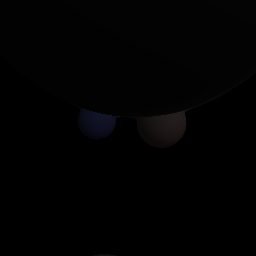
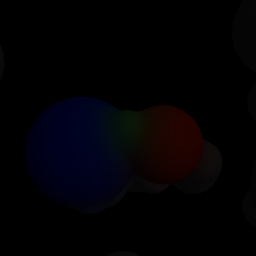
feat: loss関数の調整

Changed region(s): [[0.125, 0.375, 0.4688, 0.75], [0.625, 0.4062, 0.8125, 0.6875]]

diff --git a/src/renderer_diff.rs b/src/renderer_diff.rs
@@ -1,0 +1,86 @@
+use crate::model::scene::{calc_normal_scene, scene_sdf_value};
+use burn::prelude::*;
+use burn::tensor::activation;
+
+pub fn render_diff<B: Backend>(
+    ray_org: Tensor<B, 2>, // [N, 3]
+    ray_dir: Tensor<B, 2>, // [N, 3]
+    centers: Tensor<B, 2>, // [M, 3]
+    colors: Tensor<B, 2>,  // [M, 3]
+    radius: Tensor<B, 2>,  // [M, 1]
+) -> Tensor<B, 2> // [N, 3]
+{
+    let num_rays = ray_org.dims()[0];
+    let device = ray_org.device();
+
+    let mut t = Tensor::<B, 2>::zeros([num_rays, 1], &device);
+
+    for _ in 0..40 {
+        let p = ray_org.clone() + ray_dir.clone() * t.clone();
+        let dist = scene_sdf_value(p, centers.clone(), radius.clone());
+        t = t + dist;
+    }
+
+    let p_final = ray_org + ray_dir * t;
+
+    let normal = calc_normal_scene(p_final.clone(), centers.clone(), radius.clone());
+
+    let light_dir_vec: [f32; 3] = [-0.5, 0.5, -1.0];
+    // 正規化
+    let ld_len =
+        (light_dir_vec[0].powf(2.0) + light_dir_vec[1].powf(2.0) + light_dir_vec[2].powf(2.0))
+            .sqrt();
+    let light_dir_data = light_dir_vec.map(|x| x / ld_len);
+
+    // [1, 3] として作成 (ブロードキャスト用)
+    let light_dir = Tensor::<B, 1>::from_floats(light_dir_data, &device).unsqueeze_dim(0);
+
+    // normal: [N, 3], light_dir: [1, 3] -> [N, 3]
+    let diffuse = (normal * light_dir).sum_dim(1).clamp_min(0.0); // [N, 1]
+
+    let lighting = diffuse + 0.1;
+
+    // Step A: 全レイと全球の距離行列 [N, M] を計算
+    // p_final: [N, 1, 3]
+    let p_expanded = p_final.clone().unsqueeze_dim::<3>(1);
+    // centers: [1, M, 3]
+    let c_expanded = centers.clone().unsqueeze_dim::<3>(0);
+
+    // diff: [N, M, 3]
+    let diff = p_expanded - c_expanded;
+
+    // dists: [N, M] (各レイから各球への距離)
+    let dists_sq = diff.powf_scalar(2.0).sum_dim(2).squeeze_dim(2);
+    let dists = dists_sq.sqrt() - radius.clone().transpose(); // [N, M] - [1, M] -> [N, M]
+
+    // Step B: 重みの計算 [N, M]
+    // weight = exp(-dist * 10.0)
+    let weights = dists.mul_scalar(-10.0).exp();
+
+    // Step C: 色の加重平均
+    // colors: [M, 3] -> [1, M, 3]
+    let colors_expanded = colors.unsqueeze_dim::<3>(0);
+
+    // weights: [N, M] -> [N, M, 1] (色成分へ掛けるため)
+    let weights_expanded = weights.clone().unsqueeze_dim::<3>(2);
+
+    // weighted_colors: [N, M, 3] = [1, M, 3] * [N, M, 1]
+    let weighted_colors = colors_expanded * weights_expanded;
+
+    // 全球分を合計 [N, M, 3] -> [N, 1, 3] -> [N, 3]
+    let color_sum = weighted_colors.sum_dim(1).squeeze_dim(1);
+
+    // 重みの合計 [N, M] -> [N, 1]
+    let weight_sum = weights.sum_dim(1) + 1e-5;
+
+    // 混合色
+    let mixed_color = color_sum / weight_sum;
+
+    let object_color = mixed_color * lighting;
+
+    let dist_scene = scene_sdf_value(p_final, centers, radius);
+
+    let mask = activation::sigmoid(dist_scene.mul_scalar(-15.0));
+
+    object_color * mask
+}

diff --git a/src/bin/train.rs b/src/bin/train.rs
@@ -104,11 +104,56 @@ fn main() {
 
         // --- Forward & Backward ---
         let output = model.forward(batch_ro, batch_rd);
-        let loss = (output - batch_target).powf_scalar(2.0).mean();
+
+        // --- Loss計算 ---
+        let diff = output - batch_target.clone();
+        let mse_map = diff.clone().powf_scalar(2.0);
+        let abs_diff = diff.abs();
+
+        // 1. 物体領域(黒くない画素)の判定
+        let target_sum = batch_target.sum_dim(1);
+        let target_mask = target_sum.greater_elem(0.01); // [Batch, 1] Bool
+
+        // 2. 混合Loss (物体領域は L1 で厳しく、背景は MSE)
+        let mixed_loss_map = mse_map.mask_where(
+            target_mask,     // condition
+            abs_diff * 10.0, // replacement (L1 * 10)
+        );
+        let mut loss = mixed_loss_map.mean();
+
+        // 3. 反発項 (0除算/無限勾配回避)
+        let centers = model.centers.val();
+        let c1 = centers.clone().unsqueeze_dim::<3>(1);
+        let c2 = centers.clone().unsqueeze_dim::<3>(0);
+        let dist_sq = (c1 - c2).powf_scalar(2.0).sum_dim(2);
+        let dist_matrix = (dist_sq + 1e-6).sqrt().squeeze_dim(2);
+        let eye = Tensor::<MyBackend, 2>::eye(N, &device);
+        let repulsion_loss = (dist_matrix + eye * 100.0 + 1e-6).powf_scalar(-1.0).mean();
+        loss = loss + repulsion_loss * 0.0002;
+
+        // 4. 半径の巨大化ペナルティ (型エラー修正版)
+        let radius_val = activation::softplus(model.radius.val(), 1.0);
+        let r_mask = radius_val.clone().greater_elem(1.0); // 1.0を超えたら罰則
+        let radius_penalty = Tensor::zeros_like(&radius_val)
+            .mask_where(r_mask, radius_val.powf_scalar(2.0))
+            .mean();
+        loss = loss + radius_penalty * 0.1;
+
+        // 5. 画面外への逃亡防止
+        let center_penalty = model.centers.val().powf_scalar(2.0).mean();
+        loss = loss + center_penalty * 0.001;
+        // let loss = mse_loss;
 
         let grads = loss.backward();
         let grads = GradientsParams::from_grads(grads, &model);
-        model = optim.step(lr, model, grads);
+        let current_lr = if i < 1000 {
+            lr
+        } else if i < 2000 {
+            lr * 0.2
+        } else {
+            lr * 0.04
+        };
+        model = optim.step(current_lr, model, grads);
 
         // --- ログ出力 & 画像保存 ---
         if i % 100 == 0 {

diff --git a/src/model/scene.rs b/src/model/scene.rs
@@ -3,7 +3,7 @@ use burn::prelude::*;
 use burn::tensor::activation;
 
 use crate::model::sdf::soft_min_tensor;
-use crate::renderer::render;
+use crate::renderer_diff::render_diff;
 
 // --- 1. モデル定義 (Module) ---
 #[derive(Module, Debug)]
@@ -27,7 +27,7 @@ impl<B: Backend> SceneModel<B> {
         let centers = self.centers.val();
         let radius_positive = activation::softplus(self.radius.val(), 1.0) + 0.01;
 
-        render(ray_org, ray_dir, centers, colors_rgb, radius_positive)
+        render_diff(ray_org, ray_dir, centers, colors_rgb, radius_positive)
     }
 }
 

diff --git a/src/lib.rs b/src/lib.rs
@@ -1,4 +1,5 @@
 pub mod camera;
 pub mod model;
 pub mod renderer;
+pub mod renderer_diff;
 pub mod util;
